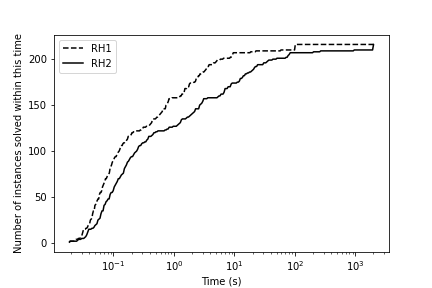
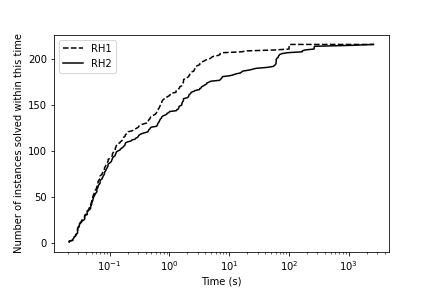
outptu

diff --git a/plots/heur_analysis.py b/plots/heur_analysis.py
@@ -10,9 +10,9 @@ import matplotlib.pyplot as plt
 import scipy.stats
 import numpy as np
 
-d_3_RH = pandas.read_csv("../output/output_heur3_1.500000.csv",sep = ";",header=2)
+d_3_RH = pandas.read_csv("../output/output_heur3_3.000000.csv",sep = ";",header=2)
 d_3_RH["Instance name "] = d_3_RH["Instance name "] + "_3channels"
-d_6_RH = pandas.read_csv("../output/output_heur6_1.500000.csv",sep = ";",header=2)
+d_6_RH = pandas.read_csv("../output/output_heur6_3.000000.csv",sep = ";",header=2)
 d_6_RH["Instance name "] = d_6_RH["Instance name "] + "_6channels"
 d_RH = pandas.concat([d_3_RH,d_6_RH])
 
@@ -23,6 +23,12 @@ d_6_GH["Instance name "] = d_6_GH["Instance name "] + "_6channels"
 d_GH = pandas.concat([d_3_GH,d_6_GH])
 
 
+
+def histogram(serie):
+    serie = list(serie)
+    serie.sort()
+    L = len(serie)
+    return serie, list(range(1,1+L))
 
 
 def comparison1v1UB(serie1,serie2,name_title,name_file):
@@ -51,13 +57,23 @@ def comparison1v1UB(serie1,serie2,name_title,name_file):
 def time_distribution(serie1,serie2,name):
     L = len(serie1)
     M = max(serie1.max(),serie2.max())
-    hx1, hy1, _ = plt.hist(np.log(serie1+0.001), bins=300,color="grey")
-    cumsum1 = np.cumsum(hx1)
-    hx2, hy2, _ = plt.hist(np.log(serie2+0.001), bins=300,color="grey")
-    cumsum2 = np.cumsum(hx1)
-    plt.close()
-    plt.plot(list(np.exp(hy1[1:]))+[M],list(cumsum1)+[L], color = 'black', linestyle='--', label = name+'1')
-    plt.plot(list(np.exp(hy2[1:]))+[M],list(cumsum2)+[L], color = 'black',  linestyle='-', label = name+'2')
+    x1,y1 = histogram(serie1+0.001)
+    x2,y2 = histogram(serie2+0.001)
+    # hx1, hy1, _ = plt.hist(np.log(serie1+0.001),bins=30000,color = 'black', linestyle='--', label = name+'1')
+    # cumsum1 = np.cumsum(hx1)
+    # hx2, hy2, _ = plt.hist(np.log(serie2+0.001), bins=30000, color = 'black',  linestyle='-', label = name+'2')
+    # cumsum2 = np.cumsum(hx1)
+    # hx1, hy1, _ = plt.hist(serie1+0.001, histtype='step',
+    #                         cumulative=True,bins=3000,color = 'black', linestyle='--', label = name+'1')
+    # hx2, hy2, _ = plt.hist((serie2+0.001),histtype='step',
+    #                        cumulative=True, bins=3000, color = 'black',  linestyle='-', label = name+'2')
+    
+    #plt.close()
+    #plt.plot(list(np.exp(0.5*(hy1[1:]+hy1[:30000])))+[M],list(cumsum1)+[L], color = 'black', linestyle='--', label = name+'1')
+    #plt.plot(list(np.exp(0.5*(hy2[1:]+hy2[:30000])))+[M],list(cumsum2)+[L], color = 'black',  linestyle='-', label = name+'2')
+    plt.plot(x1+[M],y1+[L], color = 'black', linestyle='--', label = name+'1')
+    plt.plot(x2+[M],y2+[L], color = 'black',  linestyle='-', label = name+'2')
+    
     plt.xscale('log')
     plt.legend()
     plt.xlabel("Time (s)")
@@ -79,10 +95,12 @@ def comparison_scatter_gap_and_size(serie1,serie2,size,name_title,name_file):
     
 def comparison1v1time(serie1,serie2,name_title,name_file):
     print("Descriptive statistics")
+    median = np.median((serie2-serie1))
     mean = np.mean((serie2-serie1))
     std = np.std((serie2-serie1))
     print("Max s1 = {0}s".format(serie1.max()))
     print("Max s2 = {0}s".format(serie2.max()))
+    print("median gap = {0}s".format(median))
     print("Mean gap = {0}s".format(mean))
     print("Std gap = {0}s".format(std))
     mannwhitneyutest_result = scipy.stats.mannwhitneyu(serie2,serie1,alternative='greater')
@@ -118,19 +136,19 @@ def comparison1v1UBscatter(serie1,serie2,name_xtitle,name_ytitle,name_file):
     
 
 print("--------------UB Greedy--------------")
-comparison1v1UB(d_GH['GH1 UB'],d_GH['GH2 UB'],"Objective improvement (%) from GH1 to GH2","greedy_cost_comparison")
+comparison1v1UB(d_GH['GH1 UB'],d_GH['GH2 UB'],"Objective improvement (%) from GH1 to GH2","greedycostcomparison")
 comparison1v1UBscatter(d_GH['GH1 UB'],d_GH['GH2 UB'],"Objective value (GH1)","Objective value (GH2)","scatter_greedy")
-comparison_scatter_gap_and_size(d_GH['GH1 UB'],d_GH['GH2 UB'],(d_GH['|I| ']+d_GH['|J|']).values,"Objective improvement (%) from GH1 to GH2","scatter_greedy_gap_vs_size")
+comparison_scatter_gap_and_size(d_GH['GH1 UB'],d_GH['GH2 UB'],(d_GH['|I| ']+d_GH['|J|']).values,"Objective improvement (%) from GH1 to GH2","scattergreedygapvssize")
 
 print("--------------Time Greedy--------------")
-comparison1v1time(d_GH['GH1 time'],d_GH['GH2 time'],"Absolute time difference (s) from GH1 to GH2","greedy_time_comparison")
+comparison1v1time(d_GH['GH1 time'],d_GH['GH2 time'],"Absolute time difference (s) from GH1 to GH2","greedytimecomparison")
 time_distribution(d_GH['GH1 time'],d_GH['GH2 time'],"GH")
 
 print("--------------UB Relax-based-heur--------------")
-comparison1v1UB(d_RH['RH1 UB'],d_RH['RH2 UB'],"Objective improvement (%) from RH1 to RH2","relax_based_heur_cost_comparison")
+comparison1v1UB(d_RH['RH1 UB'],d_RH['RH2 UB'],"Objective improvement (%) from RH1 to RH2","relaxbasedheurcostcomparison")
 comparison1v1UBscatter(d_RH['RH1 UB'],d_RH['RH2 UB'],"Objective value (RH1)","Objective value (RH2)","scatter_relbased")
-comparison_scatter_gap_and_size(d_RH['RH1 UB'],d_RH['RH2 UB'],(d_RH['|I| ']+d_RH['|J|']).values,"Objective improvement (%) from RH1 to RH2","scatter_relbased_gap_vs_size")
+comparison_scatter_gap_and_size(d_RH['RH1 UB'],d_RH['RH2 UB'],(d_RH['|I| ']+d_RH['|J|']).values,"Objective improvement (%) from RH1 to RH2","scatterrelbasedgapvssize")
 
 print("--------------Time Relax-based-heur--------------")
-comparison1v1time(d_RH['RH1 time'],d_RH['RH2 time'],"Absolute time difference (s) from RH1 to RH2","relax_based_heur_time_comparison")
+comparison1v1time(d_RH['RH1 time'],d_RH['RH2 time'],"Absolute time difference (s) from RH1 to RH2","relaxbasedheurtimecomparison")
 time_distribution(d_RH['RH1 time'],d_RH['RH2 time'],"RH")
